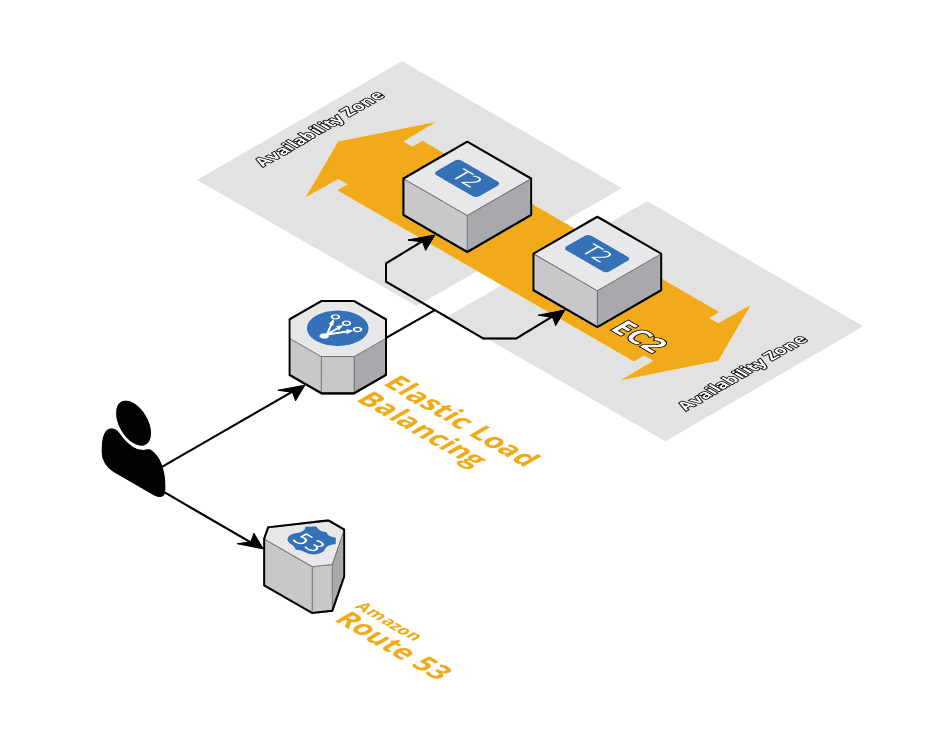
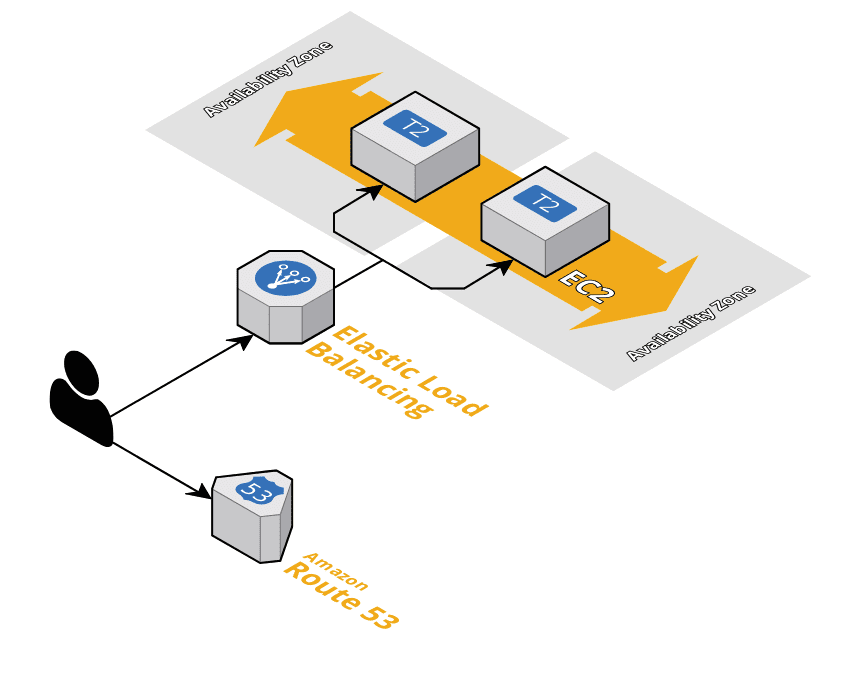
Delete images, resize infra image, update demo.md

diff --git a/pitchme/03-demo.md b/pitchme/03-demo.md
@@ -1,7 +1,8 @@
 
 Deploy an EC2 cluster behind a load balancer
 
-+++?image=assets/images/demo-infra.png?size=contain
++++
+![infra](assets/images/demo-infra.png)
 
 +++
 
